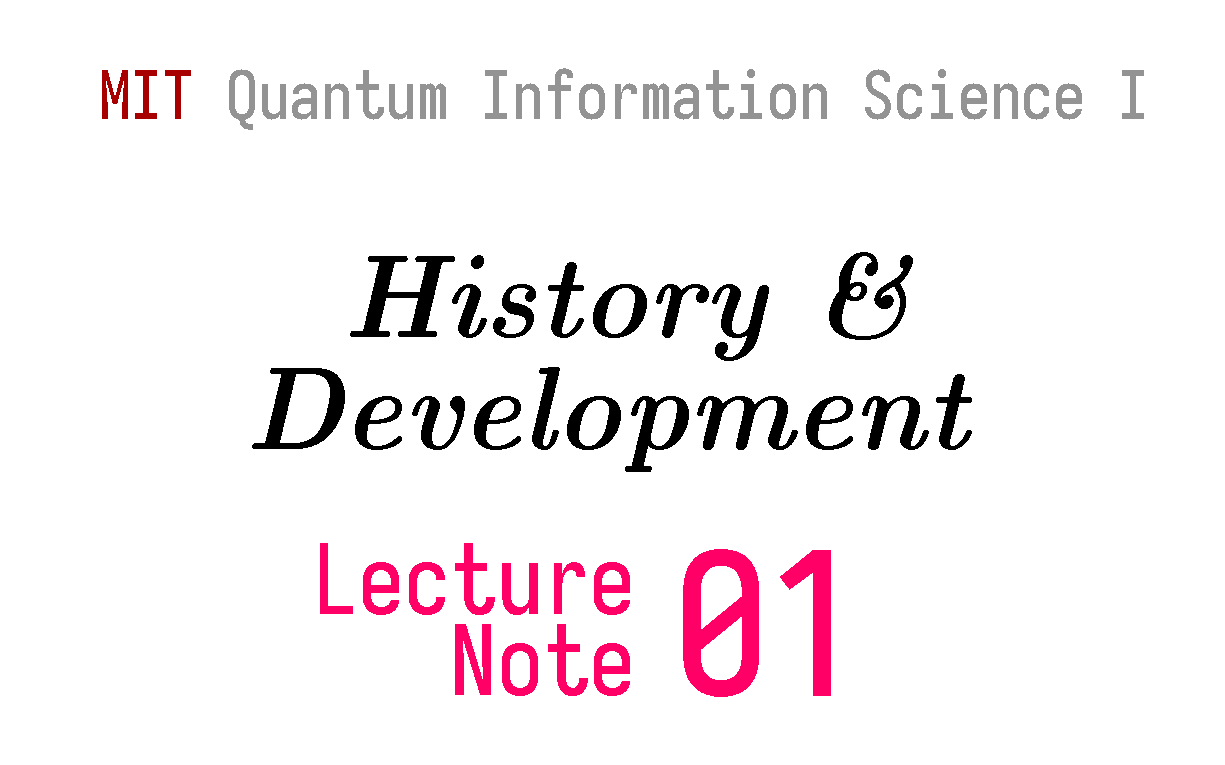
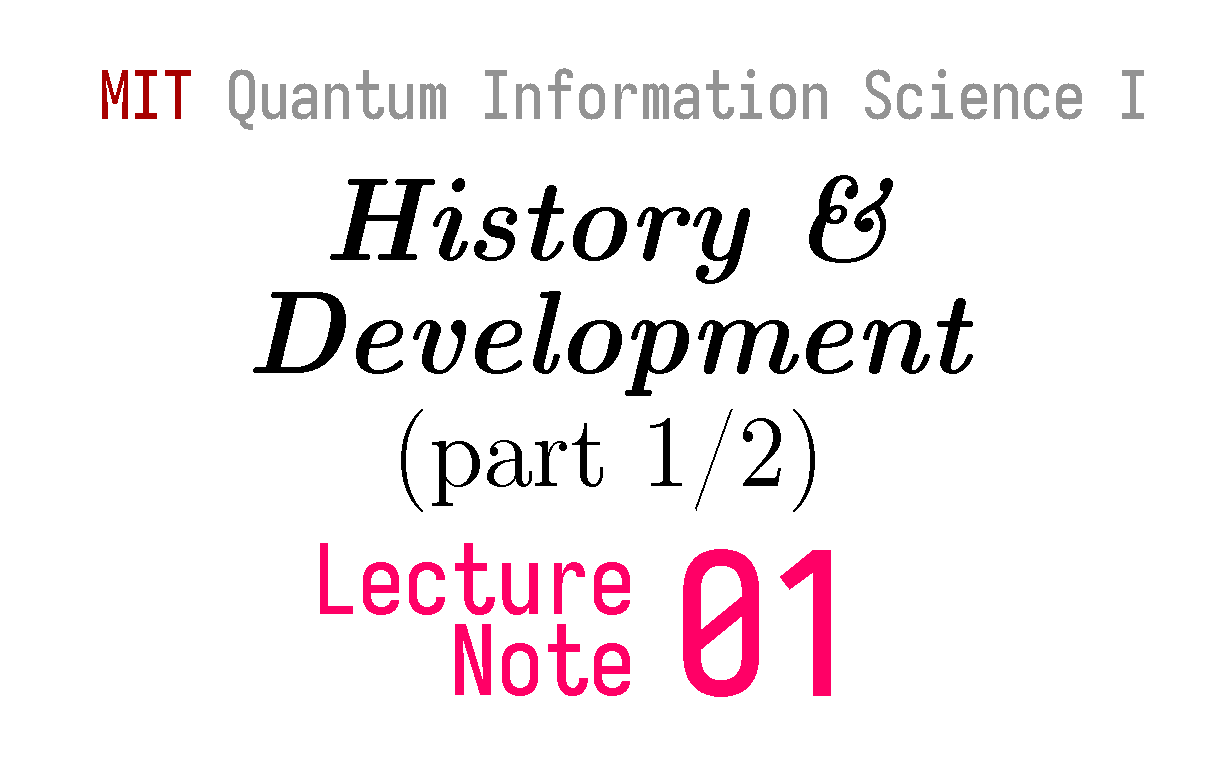
lecture note part 1

Changed region(s): [[0.2171, 0.2105, 0.8065, 0.6614]]

diff --git a/_posts/2021-02-13-qicnote01.html b/_posts/2021-02-13-qicnote01.html
@@ -10,14 +10,51 @@ tags: [Quantum Computing, Quantum Mechanics, technical, lecture note, history, Q
 mathjax: true 
 ---
 
+<h2>Overview</h2>
+<details closed>
+    <summary><b>Contents</b></summary>
+    <ul>
+        <li><a href="#model-for-classical-computation">Models for Classical Computation</a></li>
+        <li><a href="#history-of-quantum-mechanics-and-quantum-computations">History of quantum mechanics and quantum computation</a></li>
+        <li><a href="#information-is-quantum">Information is Quantum</a></li>
+        <li><a href="#computation-must-be-robust-against-noise">Computation must be robust against Noise</a></li>
+    </ul>
+</details>
+
 <h2>Introduction</h2>
-<p>Greetings, I'm on a mission to self-teach quantum computing and this is will be the beginning of the many more posts that I will write about 
+<p>&emsp;Greetings, I'm on a mission to self-teach quantum computing and this is will be the beginning of the many more posts that I will write about 
     quantum computing and quantum information. In this series, I would document the lecture note of MIT's 8.370.1x course "Quantum Information Science"
-    by none other than two giants of the field: Peter Shor and Isaac Chuang.</p>
+    by none other than the two giants of the field: Peter Shor and Isaac Chuang.</p>
+<p>&emsp;In this first out of two parts, we will approach the subject from a development of concepts from computer science and how quantum mechanics might
+    make us relize some aspect of computing that we wouldn't notice before.
+</p>
+
+<h2 id="#model-for-classical-computation">Models for Classical Computation</h2>
+
+<p>To start off, when computer scientist says computing they really meant some form of machine (computer) that can solve problem. Some of which are:</p>
+<ul>
+    <li>Turing Machine</li>
+    <li>Finite Automata</li>
+    <li>$\lambda$-calulus</li>
+    <li>A Coin</li>
+    <li>Bubble Soap and Peg (my favourite)</li>
+    <li>$\cdots$</li>
+</ul>
+
+<h2 id="#history-of-quantum-mechanics-and-quantum-computations">History of quantum mechanics and quantum computation</h2>
+
+
+<h2 id="#information-is-quantum">Information is Quantum</h2>
+
+
+<h2 id="#computation-must-be-robust-against-noise">Computation must be robust against Noise</h2>
+
+
 
 
 <h2>References</h2>
 <ul class="referece-ul">
     <li><a href="https://learning.edx.org/course/course-v1:MITx+8.370.1x+1T2018/home">Quantum Information Science I</a> (Feb 2018)</li>
+    <li>S. Aaronson. NP-complete problems and physical reality. SIGACT News, 36(1):30--52, 2005.</li>
 </ul>
 
